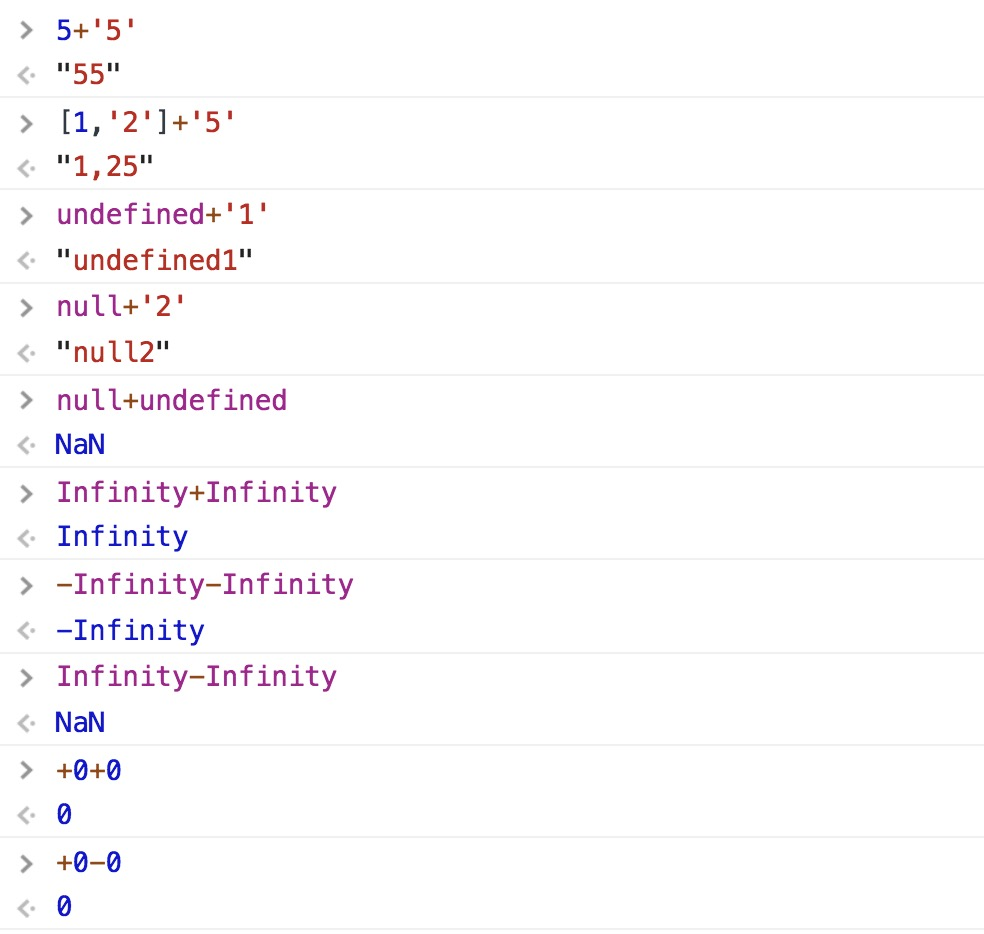
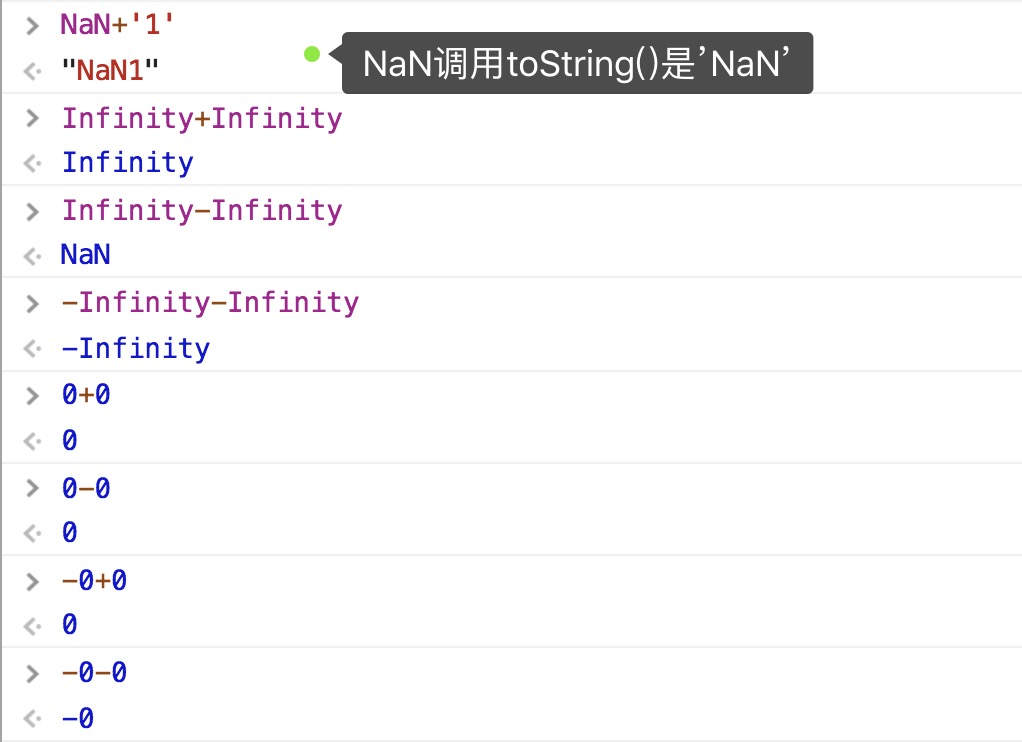
Site updated: 2018-04-06 23:07:36

Changed region(s): [[0.0, 0.0, 0.3659, 0.9919], [0.2744, 0.031, 0.8232, 0.124]]

diff --git a/2017/11/22/ES5-basics2/index.html b/2017/11/22/ES5-basics2/index.html
@@ -90,14 +90,15 @@
 <meta property="og:image" content="http://www.yvonne.party/img/blogImg/es5-basics/basics16.jpeg">
 <meta property="og:image" content="http://www.yvonne.party/img/blogImg/es5-basics/basics17.jpeg">
 <meta property="og:image" content="http://www.yvonne.party/img/blogImg/es5-basics/basics26.jpeg">
+<meta property="og:image" content="http://www.yvonne.party/img/blogImg/es5-basics/basics27.jpeg">
 <meta property="og:image" content="http://www.yvonne.party/img/blogImg/es5-basics/basics19.jpeg">
-<meta property="og:image" content="http://www.yvonne.party/img/blogImg/es5-basics/basics20.jpeg">
 <meta property="og:image" content="http://www.yvonne.party/img/blogImg/es5-basics/basics21.jpeg">
 <meta property="og:image" content="http://www.yvonne.party/img/blogImg/es5-basics/basics22.jpeg">
 <meta property="og:image" content="http://www.yvonne.party/img/blogImg/es5-basics/basics23.jpeg">
 <meta property="og:image" content="http://www.yvonne.party/img/blogImg/es5-basics/basics24.jpeg">
+<meta property="og:image" content="http://www.yvonne.party/img/blogImg/es5-basics/basics28.jpeg">
 <meta property="og:image" content="http://www.yvonne.party/img/blogImg/es5-basics/basics25.jpeg">
-<meta property="og:updated_time" content="2018-02-22T05:48:32.359Z">
+<meta property="og:updated_time" content="2018-04-06T13:24:37.632Z">
 <meta name="twitter:card" content="summary">
 <meta name="twitter:title" content="读书笔记：ES5-basics(下)">
 <meta name="twitter:description" content="操作符一元操作符-递增：    前置型 =&amp;gt; ++a =&amp;gt; 语句求值前先自加    后置型 =&amp;gt; a++ =&amp;gt; 语句求值后再自加">
@@ -335,9 +336,9 @@
 <h4 id="乘性操作符"><a href="#乘性操作符" class="headerlink" title="乘性操作符"></a>乘性操作符</h4><p><code>ECMAScript</code>定义了3个乘性操作符，乘法（<code>*</code>）/除法（<code>/</code>）/求模（<code>%</code>）</p>
 <p>非数值类型参与乘性操作符都会先调用<code>number()</code>方法转换成数值类型后再计算</p>
 <h4 id="加性操作符"><a href="#加性操作符" class="headerlink" title="加性操作符"></a>加性操作符</h4><p><code>ECMAScript</code>定义了2个加性操作符，加法（<code>+</code>）/减法（<code>-</code>）</p>
-<p>加法规则：<br>1、若操作数存在一个是字符串，另一个操作数要转换成字符串再拼接<br>2、有一个操作数是对象/数值/布尔会主动调用<code>toString()</code>，<code>null</code>/<code>undefined</code>主动调用调用<code>String()</code>，再字符串拼接<br>3、否则两个操作数都是数值，要按照数值来进行加法操作<br>部分实践结果如下：</p>
-<p><img src="/img/blogImg/es5-basics/basics19.jpeg"><br><img src="/img/blogImg/es5-basics/basics20.jpeg"></p>
-<p>减法规则：<br>1、一个操作数是字符串/布尔值/<code>null</code>/<code>undefined</code>，会主动调用<code>Number()</code>转换成数值后再做减法运算<br>2、操作数是对象，依然是<code>valueOf()</code>/<code>toString()</code><br>3、否则两个操作数都是数值就直接做减法</p>
+<p>加法规则：<br>1、若操作数存在一个是字符串，另一个操作数要转换成字符串再拼接<br>2、有一个操作数是对象/数组会主动调用<code>toString()</code>，转换的结果再按照规则操作<br>3、否则非数值会<code>Number</code>转换成数值来进行加法操作<br>部分实践结果如下：</p>
+<p><img src="/img/blogImg/es5-basics/basics27.jpeg"><br><img src="/img/blogImg/es5-basics/basics19.jpeg"><br><!-- <img src="/img/blogImg/es5-basics/basics20.jpeg">
+ --><br>减法规则：<br>1、一个操作数是字符串/布尔值/<code>null</code>/<code>undefined</code>，会主动调用<code>Number()</code>转换成数值后再做减法运算<br>2、操作数是对象，依然是<code>valueOf()</code>/<code>toString()</code><br>3、否则两个操作数都是数值就直接做减法</p>
 <p><img src="/img/blogImg/es5-basics/basics21.jpeg"></p>
 <h4 id="关系操作符"><a href="#关系操作符" class="headerlink" title="关系操作符"></a>关系操作符</h4><p><code>&gt;</code>/<code>&gt;=</code>/<code>&lt;</code>/<code>&lt;=</code>，结果返回布尔值</p>
 <p>规则：<br>1、当两个操作符都是字符串时按照顺序依次比较两个字符串的字符编码（大写字母的编码比小写字母编码小）<br>2、一个操作数是数值，另个操作数要转换成数值再进行比较，若有操作符不能转换成数值也就是转换成<code>NaN</code>了，那怎么比较都是<code>false</code><br>3、操作数是布尔值会主动转换成数值<br>3、对象会主动调用<code>valueOf()</code>/<code>toString()</code>，根据结果再按照上面情况比较</p>
@@ -358,6 +359,7 @@
 <h4 id="do-while语句求值前先自减"><a href="#do-while语句求值前先自减" class="headerlink" title="do-while语句求值前先自减"></a><code>do-while</code>语句求值前先自减</h4><p>后测试语句，循环体至少会被执行一次</p>
 <figure class="highlight plain"><table><tr><td class="gutter"><pre><span class="line">1</span><br><span class="line">2</span><br><span class="line">3</span><br></pre></td><td class="code"><pre><span class="line">do&#123;</span><br><span class="line">  //do something</span><br><span class="line">&#125;while(expression)</span><br></pre></td></tr></table></figure>
 <h4 id="while语句"><a href="#while语句" class="headerlink" title="while语句"></a><code>while</code>语句</h4><p>前测试语句，循环体可能一次都不会执行<br><figure class="highlight plain"><table><tr><td class="gutter"><pre><span class="line">1</span><br><span class="line">2</span><br><span class="line">3</span><br></pre></td><td class="code"><pre><span class="line">while(expression)&#123;</span><br><span class="line">  //do something</span><br><span class="line">&#125;</span><br></pre></td></tr></table></figure></p>
+<p>之前面试时有道题是随机生成10个1-100之间不重复的数值，从中取得最高值和最低值，当时还被懵住了尴尬，<code>while</code>和<code>for</code>都行<br><img src="/img/blogImg/es5-basics/basics28.jpeg"></p>
 <h4 id="for语句"><a href="#for语句" class="headerlink" title="for语句"></a><code>for</code>语句</h4><p>前测试语句，循环体可能一次都不会执行，相比<code>while</code>语句具有初始化变量和定义循环后要执行的代码的能力<br>⚠使用<code>while</code>做不到的<code>for</code>也做不到</p>
 <figure class="highlight plain"><table><tr><td class="gutter"><pre><span class="line">1</span><br><span class="line">2</span><br><span class="line">3</span><br><span class="line">4</span><br><span class="line">5</span><br><span class="line">6</span><br></pre></td><td class="code"><pre><span class="line">for(var i=0; i&lt;10; i++)&#123;</span><br><span class="line">  //do something</span><br><span class="line">&#125;</span><br><span class="line">alert(i)</span><br><span class="line">// 10</span><br><span class="line">// var 声明不存在块级作用域，所以外部可以访问到</span><br></pre></td></tr></table></figure>
 <p>⚠初始化表达式，控制表达式，循环后表达式都是可选的<br><figure class="highlight plain"><table><tr><td class="gutter"><pre><span class="line">1</span><br><span class="line">2</span><br><span class="line">3</span><br><span class="line">4</span><br></pre></td><td class="code"><pre><span class="line">// 无限循环</span><br><span class="line">for(;;)&#123;</span><br><span class="line">  //do something</span><br><span class="line">&#125;</span><br></pre></td></tr></table></figure></p>
@@ -366,7 +368,7 @@
 <h4 id="label语句"><a href="#label语句" class="headerlink" title="label语句"></a><code>label</code>语句</h4><p>在代码中添加标签以便将来由<code>break</code>或<code>continue</code>语句引用，加标签的语句一般要与<code>for</code>语句等循环语句搭配使用</p>
 <figure class="highlight plain"><table><tr><td class="gutter"><pre><span class="line">1</span><br><span class="line">2</span><br><span class="line">3</span><br><span class="line">4</span><br></pre></td><td class="code"><pre><span class="line">// label:statement</span><br><span class="line">start:for(...)&#123;</span><br><span class="line">  //do something</span><br><span class="line">&#125;</span><br></pre></td></tr></table></figure>
 <h4 id="break和continue语句"><a href="#break和continue语句" class="headerlink" title="break和continue语句"></a><code>break</code>和<code>continue</code>语句</h4><p><code>break</code> =&gt; 退出循环，执行循环后面的语句<br><code>continue</code> =&gt; 退出循环，从循环体顶部继续执行（即执行下一个循环）</p>
-<p>两者与<code>label</code>联合使用，返回代码特定位置，多发生下循环嵌套的情况下</p>
+<p>两者与<code>label</code>联合使用，返回代码特定位置，多发生在循环嵌套的情况下</p>
 <figure class="highlight plain"><table><tr><td class="gutter"><pre><span class="line">1</span><br><span class="line">2</span><br><span class="line">3</span><br><span class="line">4</span><br><span class="line">5</span><br><span class="line">6</span><br><span class="line">7</span><br></pre></td><td class="code"><pre><span class="line">outermost:</span><br><span class="line">for(...)&#123;</span><br><span class="line">	for(...)&#123;</span><br><span class="line">	  //break outermost</span><br><span class="line">	  //continue outermost</span><br><span class="line">	&#125;</span><br><span class="line">&#125;</span><br></pre></td></tr></table></figure>
 <p>⚠使用过度不易调试，建议用描述性的标签，且不要嵌套过多循环</p>
 <h4 id="with语句"><a href="#with语句" class="headerlink" title="with语句"></a><code>with</code>语句</h4><p>将代码作用域设置到特定的对象中，目的是简化多次编写同一个对象<br>⚠首先查找局部变量，没有再查制定的对象中是否有同名属性<br>⚠<strong><em>严格模式下报错！！！</em></strong></p>
@@ -376,7 +378,7 @@
 <figure class="highlight plain"><table><tr><td class="gutter"><pre><span class="line">1</span><br><span class="line">2</span><br><span class="line">3</span><br><span class="line">4</span><br><span class="line">5</span><br><span class="line">6</span><br><span class="line">7</span><br><span class="line">8</span><br><span class="line">9</span><br><span class="line">10</span><br><span class="line">11</span><br><span class="line">12</span><br></pre></td><td class="code"><pre><span class="line">switch(expression)&#123;</span><br><span class="line">	case value1: </span><br><span class="line">		statement;</span><br><span class="line">		break;</span><br><span class="line">	//value2和value3情况合并</span><br><span class="line">	case value2: </span><br><span class="line">	case value3:</span><br><span class="line">		statement;</span><br><span class="line">		break;</span><br><span class="line">	default: </span><br><span class="line">		statememt;</span><br><span class="line">&#125;</span><br></pre></td></tr></table></figure>
 <p>⚠<code>switch</code>里可是是任何类型数据<br>⚠<code>case</code>可以是<strong><em>常量/变量/表达式</em></strong><br>⚠比较用的<strong><em>全等操作符</em></strong></p>
 <h3 id="函数"><a href="#函数" class="headerlink" title="函数"></a>函数</h3><p>返回值相关：<br>函数可以没有<code>return</code>返回值，当不<code>return</code>时，其实返回了<code>undefined</code><br>函数可以在任何时候<code>return</code>，当<code>return</code>后面没有跟具体值时会返回<code>undefined</code><br><code>return</code>后面的语句不会执行<br>推荐一个函数要么始终有一个返回值，要么就没有返回值，便于调试</p>
-<p>严格模式限制：（以下会导致语法错误无法执行）<br>不能吧函数名字和参数名字命名为<code>eval</code>或者<code>arguments</code><br>参数名不能相同</p>
+<p>严格模式限制：（以下会导致语法错误无法执行）<br>不能把函数名字和参数名字命名为<code>eval</code>或者<code>arguments</code><br>参数名不能相同</p>
 <p>参数：<br>函数参数是以一个包含零或多个值的数组的形式传递，函数接受的始终是这个数组，并不关心数组中包含哪些参数，函数内通过<code>arguments</code>对象访问这个数组<br>平时写的函数中命名的参数只提供便利，不是必须的<br><code>arguments</code>不是<code>Arrary</code>的实例，类似数组，可以通过方括号语法<code>arguments[0]</code>读值<br><code>arguments</code>的值始终与命名参数的值保持同步，<strong><em>但内存空间是独立的</em></strong>，当改变<code>arguments</code>的值时会同步到命名参数中，前提是参数值有被传递进来，若没有传递进来，<code>arguments</code>取值是<code>undifined</code>,<strong><em><code>arguments</code>长度由实际传递进来的参数个数决定，不由定义的决定</em></strong></p>
 <p><img src="/img/blogImg/es5-basics/basics25.jpeg"></p>
 <p>重载：<br>没有签名、没有重载<br>先后定义两个同名函数，后定义的函数会覆盖前一个函数<br>通过检查传入函数中参数的类型和数量做不同的响应，来模仿重载</p>

diff --git a/2017/09/20/ES5-array/index.html b/2017/09/20/ES5-array/index.html
@@ -102,7 +102,7 @@
 <meta property="og:image" content="http://www.yvonne.party/img/blogImg/es5-array/es5-array13.jpg">
 <meta property="og:image" content="http://www.yvonne.party/img/blogImg/es5-array/es5-array14.jpg">
 <meta property="og:image" content="http://www.yvonne.party/img/blogImg/es5-array/es5-array15.jpg">
-<meta property="og:updated_time" content="2018-03-08T12:26:21.828Z">
+<meta property="og:updated_time" content="2018-04-06T14:03:56.890Z">
 <meta name="twitter:card" content="summary">
 <meta name="twitter:title" content="读书笔记：ES5-Array">
 <meta name="twitter:description" content="突如其来的读书笔记原本计划要系统的学习ES6的，但是中途很容易出现提到一些技术点对比时忘记了原有的技术情况，虽说ES5基本都是会的，但是很多东西不常用就会忘记，最近脑子不好用，经常想用什么的时候想不起来了，还要去查一下来确认，就想再过一遍基础知识了，看了几天又想统一做下笔记，方便自己之后查看～">
@@ -379,9 +379,9 @@
 <p><code>toString()</code>，每一项调用<code>toString()</code>方法，返回数组值以逗号分隔的字符串<br><code>valueOf()</code>，返回数组<br><code>toLocaleString()</code>，每一项调用<code>toLocaleString()</code>方法，返回数组值以逗号分隔的字符串<br>以上<strong>不影响原数组</strong></p>
 <p><img src="/img/blogImg/es5-array/es5-array1.jpg"></p>
 <p>由于<code>alert()</code>要接收字符串，所以<code>alert(array)</code>会在后台调用<code>toString()</code>方法，与显示调用<code>toString()</code>效果一样</p>
-<p>以上返回的是以逗号分隔的字符串，<code>join()</code>可以自定义分隔符，不传递参数或者传<code>undefined</code>则都默认为逗号分隔，注意传递<code>null</code>会以<code>null</code>分隔，<strong>不影响原数组</strong></p>
+<p>以上返回的是以逗号分隔的字符串，<code>join()</code>可以自定义分隔符，不传递参数或者传<code>undefined</code>则都默认为逗号分隔，注意传递<code>null</code>会以<code>null</code>分隔，传递<code>NaN</code>会以<code>NaN</code>分隔,<strong>不影响原数组</strong></p>
 <p><img src="/img/blogImg/es5-array/es5-array2.jpg"></p>
-<p>若数组某一项是<code>undefined</code>或者<code>null</code>，该值在<code>toString()</code>，<code>toLocaleString()</code>，<code>join()</code>返回结果中显示空字符，<code>valueOf()</code>还是原值</p>
+<p>若数组某一项是<code>undefined</code>或者<code>null</code>，该值在<code>toString()</code>，<code>toLocaleString()</code>，<code>join()</code>返回结果中显示空字符，<code>valueOf()</code>还是原值，之前的知识点中<code>String(undefined)</code>和<code>String(null)</code>分别是<code>&#39;undefined&#39;</code>和<code>&#39;null&#39;</code>的，两者不存在<code>toString()</code>方法会报错的</p>
 <p><img src="/img/blogImg/es5-array/es5-array3.jpg"></p>
 <h3 id="栈-amp-队列方法"><a href="#栈-amp-队列方法" class="headerlink" title="栈&amp;队列方法"></a>栈&amp;队列方法</h3><p><strong>push() &amp; pop() &amp; unshift() &amp; shift()</strong></p>
 <p><code>push()</code>,尾部插入，可以传递多个参数，每个参数做为数组项插入，返回数组长度<br><code>pop()</code>,尾部删除一项，返回删除项<br><code>unshift()</code>,头部插入，可以传递多个参数，每个参数做为数组项插入，返回数组长度<br><code>shift()</code>,头部删除一项，返回删除项<br>以上<strong>影响的就是原数组</strong></p>
@@ -389,9 +389,9 @@
 <p>队列方法： First-In-First-Out =&gt; <code>push()</code>和<code>shift()</code>组合</p>
 <p>反向队列方法： <code>unshift()</code>和<code>pop()</code>组合</p>
 <h3 id="重排序方法"><a href="#重排序方法" class="headerlink" title="重排序方法"></a>重排序方法</h3><p><strong>reverse() &amp; sort()</strong></p>
-<p><code>reverse()</code> =&gt; 反转数组项，返回重排序后的数组，<strong>影响的就是原数组</strong></p>
+<p><code>reverse()</code> =&gt; 反转数组项，返回重排序后的数组，虽然返回的是重排序的数组但是<strong>影响原数组</strong></p>
 <p><img src="/img/blogImg/es5-array/es5-array4.jpg"></p>
-<p><code>sort()</code> =&gt; 从小到大排序，内部每一项调用<code>toString()</code>转换成字符串进行比较，返回重排序的数组，<strong>影响的就是原数组</strong></p>
+<p><code>sort()</code> =&gt; 从小到大排序，内部每一项调用<code>toString()</code>转换成字符串进行比较，返回重排序的数组，虽然返回的是重排序的数组但是<strong>影响原数组</strong></p>
 <p><img src="/img/blogImg/es5-array/es5-array5.jpg"></p>
 <p>由于比较的是字符串，所以不够灵活，会出现20排在了3之前，所以<code>sort()</code>可以接受一个函数，返回值1表示value1排在value2后面，返回值-1表示value1排在value2前面，返回值0表示不动，所以完全可以自定义是从小到大排序还是从大到小排序</p>
 <figure class="highlight plain"><table><tr><td class="gutter"><pre><span class="line">1</span><br><span class="line">2</span><br><span class="line">3</span><br><span class="line">4</span><br><span class="line">5</span><br><span class="line">6</span><br><span class="line">7</span><br><span class="line">8</span><br><span class="line">9</span><br><span class="line">10</span><br></pre></td><td class="code"><pre><span class="line">function compare(value1,value2)&#123;</span><br><span class="line">	if(value1&gt;value2)&#123;</span><br><span class="line">		return 1;</span><br><span class="line">	&#125;else if(value1&lt;value2)&#123;</span><br><span class="line">		return -1;</span><br><span class="line">	&#125;</span><br><span class="line">	return 0;</span><br><span class="line">&#125;</span><br><span class="line"></span><br><span class="line">[1,20,3].sort(compare);</span><br></pre></td></tr></table></figure>

diff --git a/2018/03/22/ES5-面相对象/index.html b/2018/03/22/ES5-面相对象/index.html
@@ -79,17 +79,17 @@
 
 
 
-<meta name="description" content="理解对象属性类型数据属性：描述行为的特性有[[configurable]]">
+<meta name="description" content="理解对象属性类型ES有两种属性：数据属性/访问器属性 数据属性：包含一个数据值的位置，此位置可以读取和写入描述行为的特性有以下：[[Configurable]] 是否能通过delete删除属性从而重新定义属性，能否修改属性的特性，或者能否修改为访问器属性。开发人员直接在对象定义的属性该特性默认值是true[[Enumerable]] 能否通过for-in返回。…默认值是true[[Writable">
 <meta name="keywords" content="JS,ES5,读书笔记">
 <meta property="og:type" content="article">
 <meta property="og:title" content="读书笔记：ES5-面相对象">
 <meta property="og:url" content="http://www.yvonne.party/2018/03/22/ES5-面相对象/index.html">
 <meta property="og:site_name" content="Yvonne">
-<meta property="og:description" content="理解对象属性类型数据属性：描述行为的特性有[[configurable]]">
-<meta property="og:updated_time" content="2018-03-22T15:38:38.319Z">
+<meta property="og:description" content="理解对象属性类型ES有两种属性：数据属性/访问器属性 数据属性：包含一个数据值的位置，此位置可以读取和写入描述行为的特性有以下：[[Configurable]] 是否能通过delete删除属性从而重新定义属性，能否修改属性的特性，或者能否修改为访问器属性。开发人员直接在对象定义的属性该特性默认值是true[[Enumerable]] 能否通过for-in返回。…默认值是true[[Writable">
+<meta property="og:updated_time" content="2018-04-06T08:13:28.651Z">
 <meta name="twitter:card" content="summary">
 <meta name="twitter:title" content="读书笔记：ES5-面相对象">
-<meta name="twitter:description" content="理解对象属性类型数据属性：描述行为的特性有[[configurable]]">
+<meta name="twitter:description" content="理解对象属性类型ES有两种属性：数据属性/访问器属性 数据属性：包含一个数据值的位置，此位置可以读取和写入描述行为的特性有以下：[[Configurable]] 是否能通过delete删除属性从而重新定义属性，能否修改属性的特性，或者能否修改为访问器属性。开发人员直接在对象定义的属性该特性默认值是true[[Enumerable]] 能否通过for-in返回。…默认值是true[[Writable">
 
 
 
@@ -309,7 +309,9 @@
       
 
       
-        <h3 id="理解对象"><a href="#理解对象" class="headerlink" title="理解对象"></a>理解对象</h3><h4 id="属性类型"><a href="#属性类型" class="headerlink" title="属性类型"></a>属性类型</h4><p>数据属性：<br>描述行为的特性有[[configurable]]</p>
+        <h3 id="理解对象"><a href="#理解对象" class="headerlink" title="理解对象"></a>理解对象</h3><h4 id="属性类型"><a href="#属性类型" class="headerlink" title="属性类型"></a>属性类型</h4><p>ES有两种属性：数据属性/访问器属性</p>
+<p>数据属性：包含一个数据值的位置，此位置可以读取和写入<br>描述行为的特性有以下：<br><code>[[Configurable]]</code> 是否能通过<code>delete</code>删除属性从而重新定义属性，能否修改属性的特性，或者能否修改为访问器属性。开发人员直接在对象定义的属性该特性默认值是<code>true</code><br><code>[[Enumerable]]</code> 能否通过<code>for-in</code>返回。…默认值是<code>true</code><br><code>[[Writable]]</code> 能否修改属性的值。…默认值是<code>true</code><br><code>[[Value]]</code> 包含属性的数据值，读取和修改就在此位置。…默认值是<code>undefined</code><br><a id="more"></a></p>
+<p>修改属性特性方法： <code>Object.defineProperty()</code>，参数一对象，参数二属性名，参数三特性对象（可设置一或多个值）</p>
 
       
     </div>

diff --git a/2017/10/31/ES5-basics1/index.html b/2017/10/31/ES5-basics1/index.html
@@ -101,7 +101,7 @@
 <meta property="og:image" content="http://www.yvonne.party/img/blogImg/es5-basics/basics13.jpeg">
 <meta property="og:image" content="http://www.yvonne.party/img/blogImg/es5-basics/basics18.jpeg">
 <meta property="og:image" content="http://www.yvonne.party/img/blogImg/es5-basics/basics14.jpeg">
-<meta property="og:updated_time" content="2018-03-08T11:25:45.154Z">
+<meta property="og:updated_time" content="2018-04-06T13:58:45.731Z">
 <meta name="twitter:card" content="summary">
 <meta name="twitter:title" content="读书笔记：ES5-basics(上)">
 <meta name="twitter:description" content="所有方法-typeof-Boolean-isFinite-isNaN-Number-parseInt-parseFloat">
@@ -422,7 +422,7 @@
 <h4 id="Number类型"><a href="#Number类型" class="headerlink" title="Number类型"></a>Number类型</h4><p>该数据类型使用IEEE754格式表示整数和浮点数，数值字面量格式包含十进制／八进制（前置0后跟0-7，严格模式下会报错，ES6整体提升到严格模式了哟）／十六进制（前置0x后跟0-9和A-F，A-F大小写都可以），计算时最终都会转变成十进制数值</p>
 <h5 id="浮点数"><a href="#浮点数" class="headerlink" title="-浮点数"></a>-浮点数</h5><figure class="highlight plain"><table><tr><td class="gutter"><pre><span class="line">1</span><br><span class="line">2</span><br><span class="line">3</span><br></pre></td><td class="code"><pre><span class="line">var floatNum = 1.1;</span><br><span class="line">//可以识别但是不推荐小数点前面没有整数的写法</span><br><span class="line">var floatNum = .1;</span><br></pre></td></tr></table></figure>
 <p>保存浮点数占用的内存空间是整数的两倍，所以<code>ECMAScript</code>会不失时机的把浮点数转换成整数，类似1.0/1.的情况</p>
-<p>e表示法：0.4e7 =&gt; $ 0.4*10^7 $，e大小写均可以</p>
+<p>e表示法：0.4e7 =&gt; <code>0.4*10^7</code>，e大小写均可以</p>
 <p>对于极小数值，默认当小数点后面0超过6个就自动转变成e表示法</p>
 <p>浮点数值计算时精准度不够，例0.1+0.2会等于0.30000000000000004，这是IEEE754的问题，所以不要做这样的判断</p>
 <h5 id="数值范围"><a href="#数值范围" class="headerlink" title="-数值范围"></a>-数值范围</h5><p><code>Number.MIN_VALUE</code> - <code>Number.MAX_VALUE</code></p>
@@ -503,8 +503,8 @@
 <p>特点：字符串不可变，即一旦创建不能改变，改变是销毁原字符串，再用包含新值的字符串填充该变量</p>
 <figure class="highlight plain"><table><tr><td class="gutter"><pre><span class="line">1</span><br><span class="line">2</span><br></pre></td><td class="code"><pre><span class="line">var str = &apos;java&apos;;</span><br><span class="line">str = str + &apos;script&apos;</span><br></pre></td></tr></table></figure>
 <p>上面的过程创建个能包含’javascript’的新字符串，填充’java’和’script’，最后要销毁’java’和’script’</p>
-<p>字符串转换：<code>toString()</code>和<code>String()</code></p>
-<p>除<code>null</code>和<code>undefined</code>都有<code>toString()</code>方法，注意对于数值类型不能直接调用，要用变量调用</p>
+<p>字符串转换：<code>toString()</code>和<code>String()</code>，前者是各数值类型方法(<code>XXX.toString()</code>)，后者是静态方法(<code>String(XXX)</code>)</p>
+<p>除<code>null</code>和<code>undefined</code>都有<code>toString()</code>方法，注意对于数值类型不能直接调用，要用变量调用，<code>NaN.toString()</code>是<code>NaN</code></p>
 <p><img src="/img/blogImg/es5-basics/basics12.jpeg"></p>
 <p><code>String()</code>方法，有<code>toString()</code>方法的调用该方法，否则调用<code>String()</code>，所以<code>null</code>和<code>undefined</code>调用不会报错</p>
 <p><img src="/img/blogImg/es5-basics/basics13.jpeg"></p>

diff --git a/2018/02/22/ES5-RegExp/index.html b/2018/02/22/ES5-RegExp/index.html
@@ -97,6 +97,7 @@
 <meta property="og:image" content="http://www.yvonne.party/img/blogImg/es5-regexp/es5-regexp8.jpeg">
 <meta property="og:image" content="http://www.yvonne.party/img/blogImg/es5-regexp/es5-regexp9.jpeg">
 <meta property="og:image" content="http://www.yvonne.party/img/blogImg/es5-regexp/es5-regexp10.jpeg">
+<meta property="og:image" content="http://www.yvonne.party/img/blogImg/es5-regexp/es5-regexp20.jpeg">
 <meta property="og:image" content="http://www.yvonne.party/img/blogImg/es5-regexp/es5-regexp11.jpeg">
 <meta property="og:image" content="http://www.yvonne.party/img/blogImg/es5-regexp/es5-regexp13.jpeg">
 <meta property="og:image" content="http://www.yvonne.party/img/blogImg/es5-regexp/es5-regexp19.jpeg">
@@ -105,7 +106,7 @@
 <meta property="og:image" content="http://www.yvonne.party/img/blogImg/es5-regexp/es5-regexp16.jpeg">
 <meta property="og:image" content="http://www.yvonne.party/img/blogImg/es5-regexp/es5-regexp17.jpeg">
 <meta property="og:image" content="http://www.yvonne.party/img/blogImg/es5-regexp/es5-regexp18.jpeg">
-<meta property="og:updated_time" content="2018-02-25T13:33:05.227Z">
+<meta property="og:updated_time" content="2018-04-06T14:55:03.357Z">
 <meta name="twitter:card" content="summary">
 <meta name="twitter:title" content="读书笔记：ES5-RegExp">
 <meta name="twitter:description" content="RegExp类型声明一个正则表达式就是一个模式和标志的组合体定义方式：字面量/构造函数 12var reg1 = /[ba]ct/g;var reg2 = new RegExp(&amp;apos;[ba]ct&amp;apos;,&amp;apos;g&amp;apos;);">
@@ -373,7 +374,9 @@
 <p><code>(?&lt;=pattern)</code> 非捕获的匹配，反向肯定预查<br><img src="/img/blogImg/es5-regexp/es5-regexp9.jpeg"></p>
 <p><code>(?&lt;!pattern)</code> 非捕获的匹配，反向否定预查<br><img src="/img/blogImg/es5-regexp/es5-regexp10.jpeg"></p>
 <p><code>{n}</code> 重复n次<br><code>{n,}</code> 重复n次或者大于n次<br><code>{n,m}</code> 重复n到m次</p>
-<p><strong>-其他</strong><br><code>x|y</code> 匹配x或y<br><code>[xy]</code> 字符合集，匹配任意一个字符，例<code>/[ba]ct/</code>匹配bat或cat，<code>.</code>和<code>*</code>在合集中没有特殊含义<br><code>[^xy]</code> 反字符合集，匹配非xy的任意字符<br><code>[a-z]</code> 字符范围<br><img src="/img/blogImg/es5-regexp/es5-regexp11.jpeg"></p>
+<p><strong>-其他</strong><br><code>x|y</code> 匹配x或y<br><code>[xy]</code> 字符合集，匹配任意一个字符，例<code>/[ba]ct/</code>匹配bat或cat，<code>.</code>和<code>*</code>在合集中没有特殊含义</p>
+<p><img src="/img/blogImg/es5-regexp/es5-regexp20.jpeg"></p>
+<p><code>[^xy]</code> 反字符合集，匹配非xy的任意字符<br><code>[a-z]</code> 字符范围<br><img src="/img/blogImg/es5-regexp/es5-regexp11.jpeg"></p>
 <p><code>[^a-z]</code> 反字符范围<br><code>[\b]</code> 匹配一个退格，不要和<code>\b</code>混淆<br><code>(xy)</code> 捕获分组</p>
 <h4 id="实例属性"><a href="#实例属性" class="headerlink" title="实例属性"></a>实例属性</h4><p><code>global</code> 全局标实<br><code>ignoreCase</code> 忽视大小写标实<br><code>multiline</code> 多行模式标实<br><code>lastIndex</code> 开始搜索下一个匹配项的字符位置<br><code>source</code> 正则表达式的字符串表示，<strong>无论声明用什么方式，该属性都是字面量形式的字符串表示</strong></p>
 <p>没有什么用，在声明正则时都标注了属性</p>

diff --git a/index.html b/index.html
@@ -308,10 +308,15 @@
 
       
         
-          
-            <h3 id="理解对象"><a href="#理解对象" class="headerlink" title="理解对象"></a>理解对象</h3><h4 id="属性类型"><a href="#属性类型" class="headerlink" title="属性类型"></a>属性类型</h4><p>数据属性：<br>描述行为的特性有[[configurable]]</p>
-
-          
+          <h3 id="理解对象"><a href="#理解对象" class="headerlink" title="理解对象"></a>理解对象</h3><h4 id="属性类型"><a href="#属性类型" class="headerlink" title="属性类型"></a>属性类型</h4><p>ES有两种属性：数据属性/访问器属性</p>
+<p>数据属性：包含一个数据值的位置，此位置可以读取和写入<br>描述行为的特性有以下：<br><code>[[Configurable]]</code> 是否能通过<code>delete</code>删除属性从而重新定义属性，能否修改属性的特性，或者能否修改为访问器属性。开发人员直接在对象定义的属性该特性默认值是<code>true</code><br><code>[[Enumerable]]</code> 能否通过<code>for-in</code>返回。…默认值是<code>true</code><br><code>[[Writable]]</code> 能否修改属性的值。…默认值是<code>true</code><br><code>[[Value]]</code> 包含属性的数据值，读取和修改就在此位置。…默认值是<code>undefined</code><br>
+          <!--noindex-->
+          <div class="post-button text-center">
+            <a class="btn" href="/2018/03/22/ES5-面相对象/#more" rel="contents">
+              Weiterlesen &raquo;
+            </a>
+          </div>
+          <!--/noindex-->
         
       
     </div>

diff --git a/css/main.css b/css/main.css
@@ -1822,7 +1822,7 @@ pre .javascript .function {
   width: 4px;
   height: 4px;
   border-radius: 50%;
-  background: #b6c9cd;
+  background: #d4ff08;
 }
 .links-of-blogroll {
   font-size: 13px;
